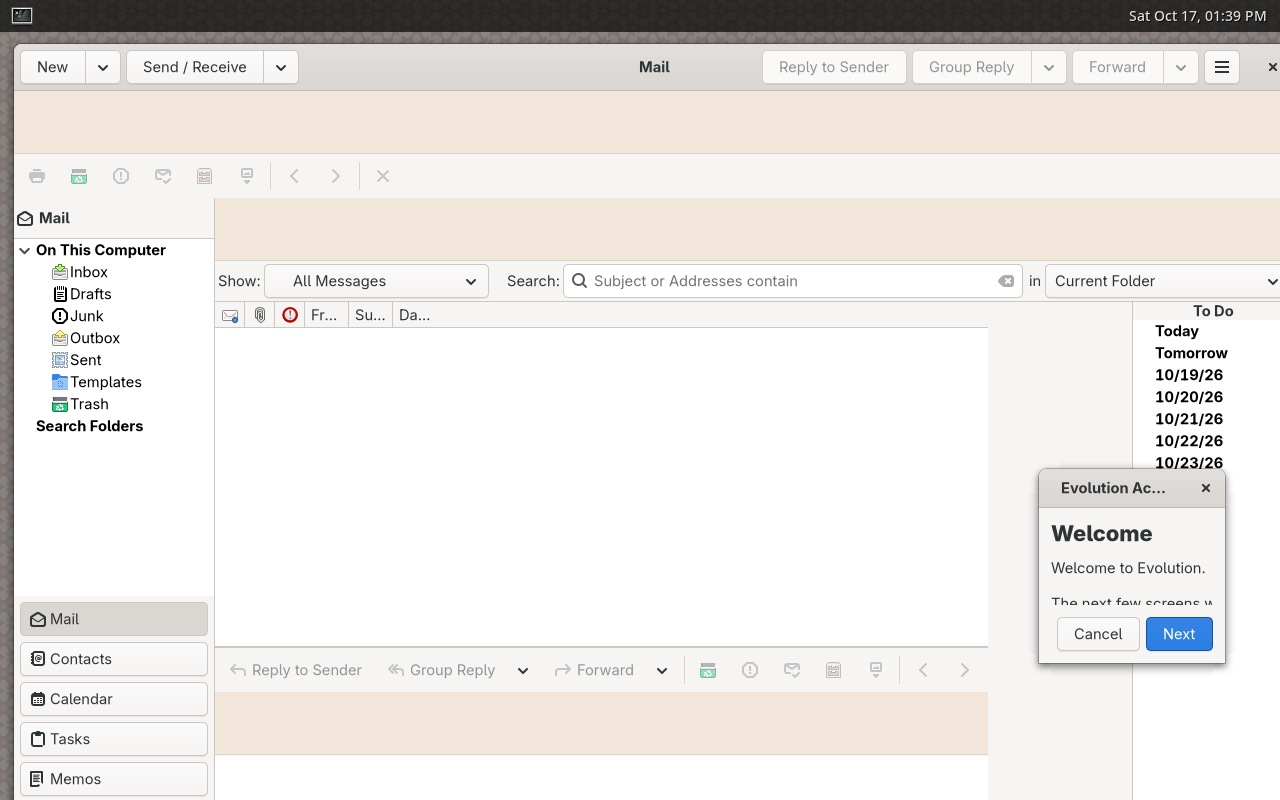
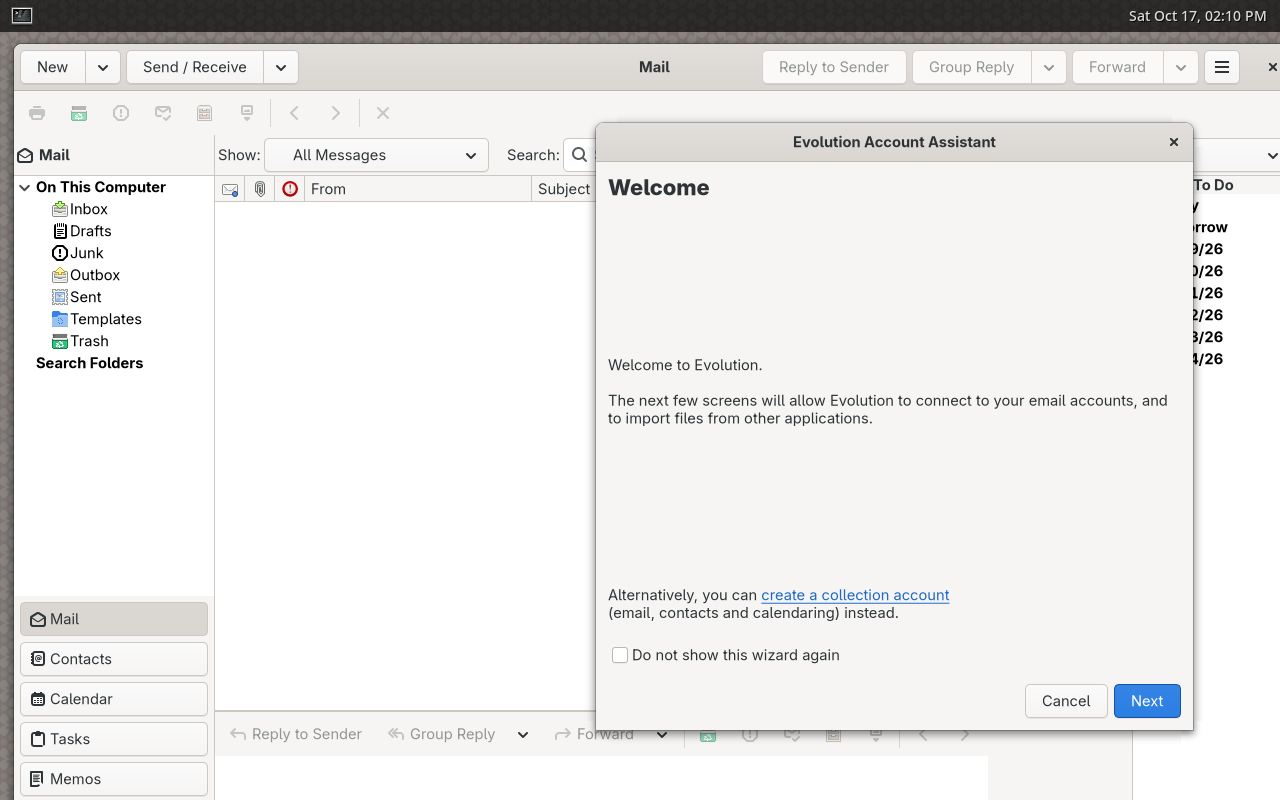
GTK 4: runtime fixes, evolution starts without criticals
size-allocate emulation for widgets that asked for it, map instead of
map-event, unchecked GTK_TOGGLE_BUTTON() casts, WebKitGTK 6 names, the
private library directory in the web process sandbox, mail config page
content lookups through the scrolled window, and alert/activity bars that
hide themselves (GTK 4 widgets are visible by default).

Changed region(s): [[0.0, 0.0938, 1.0, 0.9688], [0.9375, 0.0, 0.9688, 0.0312]]

diff --git a/src/calendar/gui/e-meeting-time-sel.c b/src/calendar/gui/e-meeting-time-sel.c
@@ -91,9 +91,11 @@ static void e_meeting_time_selector_add_key_color (EMeetingTimeSelector * mts,
 						   GtkWidget *hbox,
 						   gchar *label_text,
 						   GdkRGBA *color);
-static gint e_meeting_time_selector_draw_key_color (GtkWidget *darea,
+static void e_meeting_time_selector_draw_key_color (GtkDrawingArea *darea,
 						      cairo_t *cr,
-						      GdkRGBA *color);
+						      gint width,
+						      gint height,
+						      gpointer color);
 static void e_meeting_time_selector_realize (GtkWidget *widget);
 static void e_meeting_time_selector_unrealize (GtkWidget *widget);
 static void e_meeting_time_selector_style_updated (GtkWidget *widget);
@@ -489,7 +491,7 @@ e_meeting_time_selector_construct (EMeetingTimeSelector *mts,
 		mts->display_main, "realize",
 		G_CALLBACK (e_meeting_time_selector_on_canvas_realized), mts);
 	g_signal_connect (
-		mts->display_main, "size_allocate",
+		e_gtk_widget_size_allocations (mts->display_main), "size_allocate",
 		G_CALLBACK (e_meeting_time_selector_on_canvas_size_allocate), mts);
 	g_signal_connect (
 		e_gtk_widget_legacy_events (mts->display_main), "scroll-event",
@@ -852,45 +854,41 @@ e_meeting_time_selector_add_key_color (EMeetingTimeSelector *mts,
 	e_gtk_box_pack_start (GTK_BOX (child_hbox), label, TRUE, TRUE, 6);
 	gtk_widget_show (label);
 
-	g_signal_connect (
-		darea, "draw",
-		G_CALLBACK (e_meeting_time_selector_draw_key_color), color);
+	gtk_drawing_area_set_draw_func (GTK_DRAWING_AREA (darea),
+		e_meeting_time_selector_draw_key_color, color, NULL);
 }
 
-static gint
-e_meeting_time_selector_draw_key_color (GtkWidget *darea,
+static void
+e_meeting_time_selector_draw_key_color (GtkDrawingArea *darea,
                                         cairo_t *cr,
-                                        GdkRGBA *color)
+                                        gint width,
+                                        gint height,
+                                        gpointer color)
 {
 	EMeetingTimeSelector * mts;
-	GtkAllocation allocation;
 	GtkStyleContext *style_context;
 
 	mts = g_object_get_data (G_OBJECT (darea), "data");
 
-	style_context = gtk_widget_get_style_context (darea);
-
-	gtk_widget_get_allocation (darea, &allocation);
+	style_context = gtk_widget_get_style_context (GTK_WIDGET (darea));
 
 	gtk_render_frame (
 		style_context, cr,
 		(gdouble) 0,
 		(gdouble) 0,
-		(gdouble) allocation.width,
-		(gdouble) allocation.height);
+		(gdouble) width,
+		(gdouble) height);
 
 	if (color) {
 		gdk_cairo_set_source_rgba (cr, color);
-	} else {
+	} else if (mts->no_info_pattern) {
 		cairo_set_source (cr, mts->no_info_pattern);
 	}
 	cairo_rectangle (
 		cr,
 		1, 1,
-		allocation.width - 2, allocation.height - 2);
+		width - 2, height - 2);
 	cairo_fill (cr);
-
-	return TRUE;
 }
 
 static void

diff --git a/src/e-util/e-gtk-event-compat.c b/src/e-util/e-gtk-event-compat.c
@@ -22,6 +22,7 @@ enum {
 	POPUP_MENU,
 	STYLE_UPDATED,
 	DELETE_EVENT,
+	SIZE_ALLOCATE,
 	LAST_SIGNAL
 };
 
@@ -85,6 +86,13 @@ e_gtk_event_register_signals (void)
 		G_SIGNAL_RUN_FIRST, 0,
 		NULL, NULL, NULL,
 		G_TYPE_NONE, 0);
+
+	signals[SIZE_ALLOCATE] = g_signal_new (
+		"size-allocate", GTK_TYPE_WIDGET,
+		G_SIGNAL_RUN_FIRST, 0,
+		NULL, NULL, NULL,
+		G_TYPE_NONE, 1,
+		G_TYPE_POINTER /* GtkAllocation */);
 }
 
 static gboolean
@@ -437,6 +445,60 @@ style_settings_notify_cb (GtkSettings *settings,
 			  GtkWidget *widget)
 {
 	g_signal_emit (widget, signals[STYLE_UPDATED], 0);
+}
+
+/* original size_allocate vfuncs of the classes wrapped below, by GType */
+static GHashTable *size_allocate_originals = NULL;
+
+#define SIZE_ALLOCATE_KEY "e-gtk-size-allocate"
+
+typedef void (* SizeAllocateFunc) (GtkWidget *widget, gint width, gint height, gint baseline);
+
+static void
+size_allocate_wrapper (GtkWidget *widget,
+		       gint width,
+		       gint height,
+		       gint baseline)
+{
+	SizeAllocateFunc original = NULL;
+	GType type;
+
+	/* classes initialized after the wrapping inherit the wrapper,
+	 * thus look up the nearest wrapped ancestor */
+	for (type = G_TYPE_FROM_INSTANCE (widget); type && !original; type = g_type_parent (type))
+		original = g_hash_table_lookup (size_allocate_originals, GSIZE_TO_POINTER (type));
+
+	if (original)
+		original (widget, width, height, baseline);
+
+	if (g_object_get_data (G_OBJECT (widget), SIZE_ALLOCATE_KEY)) {
+		GtkAllocation allocation = { 0, 0, width, height };
+
+		g_signal_emit (widget, signals[SIZE_ALLOCATE], 0, &allocation);
+	}
+}
+
+gpointer
+e_gtk_widget_size_allocations (gpointer widget)
+{
+	GtkWidgetClass *klass;
+
+	g_return_val_if_fail (GTK_IS_WIDGET (widget), widget);
+
+	g_object_set_data (G_OBJECT (widget), SIZE_ALLOCATE_KEY, GINT_TO_POINTER (1));
+
+	klass = GTK_WIDGET_GET_CLASS (widget);
+
+	if (klass->size_allocate != size_allocate_wrapper) {
+		if (!size_allocate_originals)
+			size_allocate_originals = g_hash_table_new (g_direct_hash, g_direct_equal);
+
+		g_hash_table_insert (size_allocate_originals,
+			GSIZE_TO_POINTER (G_TYPE_FROM_CLASS (klass)), klass->size_allocate);
+		klass->size_allocate = size_allocate_wrapper;
+	}
+
+	return widget;
 }
 
 gpointer

diff --git a/src/e-util/e-web-view.c b/src/e-util/e-web-view.c
@@ -1062,6 +1062,10 @@ web_view_constructor (GType type,
 				webkit_web_context_set_cache_model (web_context, WEBKIT_CACHE_MODEL_DOCUMENT_VIEWER);
 				webkit_web_context_set_web_process_extensions_directory (web_context, EVOLUTION_WEB_EXTENSIONS_DIR);
 				webkit_web_context_add_path_to_sandbox (web_context, EVOLUTION_WEBKITDATADIR, TRUE);
+				/* DoxMail: the extensions link the private libraries, which
+				 * the web process sandbox hides outside of /usr */
+				if (!g_str_has_prefix (EVOLUTION_PRIVLIBDIR, "/usr/"))
+					webkit_web_context_add_path_to_sandbox (web_context, EVOLUTION_PRIVLIBDIR, TRUE);
 
 				plugins_path = g_build_filename (e_get_user_data_dir (), "preview-plugins", NULL);
 				if (g_file_test (plugins_path, G_FILE_TEST_IS_DIR))
@@ -1821,7 +1825,7 @@ web_view_constructed (GObject *object)
 
 	g_clear_object (&settings);
 
-	g_signal_connect_object (webkit_web_view_get_context (WEBKIT_WEB_VIEW (web_view)), "initialize-web-extensions",
+	g_signal_connect_object (webkit_web_view_get_context (WEBKIT_WEB_VIEW (web_view)), "initialize-web-process-extensions",
 		G_CALLBACK (e_web_view_initialize_web_extensions_cb), web_view, 0);
 
 	/* Chain up to parent's constructed() method. */
@@ -3633,7 +3637,6 @@ e_web_view_get_default_webkit_settings (void)
 		"enable-html5-database", FALSE,
 		"enable-dns-prefetching", FALSE,
 		"enable-html5-local-storage", FALSE,
-		"enable-java", FALSE,
 		"enable-javascript", TRUE, /* Needed for JavaScriptCore API to work */
 		"enable-javascript-markup", FALSE, /* Discards user-provided javascript in HTML */
 		"enable-offline-web-application-cache", FALSE,

diff --git a/src/modules/webkit-editor/e-webkit-editor.c b/src/modules/webkit-editor/e-webkit-editor.c
@@ -4240,7 +4240,7 @@ webkit_editor_constructed (GObject *object)
 
 	/* Do this before calling the parent's constructed(), because
 	   that can emit the web_context's signal */
-	g_signal_connect_object (web_context, "initialize-web-extensions",
+	g_signal_connect_object (web_context, "initialize-web-process-extensions",
 		G_CALLBACK (e_webkit_editor_initialize_web_extensions_cb), wk_editor, 0);
 
 	G_OBJECT_CLASS (e_webkit_editor_parent_class)->constructed (object);
@@ -4396,6 +4396,10 @@ webkit_editor_constructor (GType type,
 				webkit_web_context_set_cache_model (web_context, WEBKIT_CACHE_MODEL_DOCUMENT_VIEWER);
 				webkit_web_context_set_web_process_extensions_directory (web_context, EVOLUTION_WEB_EXTENSIONS_WEBKIT_EDITOR_DIR);
 				webkit_web_context_add_path_to_sandbox (web_context, EVOLUTION_WEBKITDATADIR, TRUE);
+				/* DoxMail: the extensions link the private libraries, which
+				 * the web process sandbox hides outside of /usr */
+				if (!g_str_has_prefix (EVOLUTION_PRIVLIBDIR, "/usr/"))
+					webkit_web_context_add_path_to_sandbox (web_context, EVOLUTION_PRIVLIBDIR, TRUE);
 
 				plugins_path = g_build_filename (e_get_user_data_dir (), "webkit-editor-plugins", NULL);
 				if (g_file_test (plugins_path, G_FILE_TEST_IS_DIR))

diff --git a/src/shell/e-shell-view.c b/src/shell/e-shell-view.c
@@ -1301,10 +1301,11 @@ shell_view_init_ui_data (EShellView *self)
 }
 
 static void
-shell_view_menubar_deactivate_cb (GtkWidget *menu_bar,
+shell_view_menubar_deactivate_cb (GtkEventControllerFocus *controller,
 				  gpointer user_data)
 {
 	EShellView *self = user_data;
+	GtkWidget *menu_bar = gtk_event_controller_get_widget (GTK_EVENT_CONTROLLER (controller));
 
 	g_return_if_fail (E_IS_SHELL_VIEW (self));
 
@@ -2141,8 +2142,14 @@ shell_view_constructed (GObject *object)
 	shell_view->priv->menu_bar = e_menu_bar_new (widget, GTK_WINDOW (shell_view->priv->shell_window), &shell_view->priv->menu_button);
 	e_gtk_box_pack_start (GTK_BOX (shell_view), widget, FALSE, FALSE, 0);
 
-	g_signal_connect_object (widget, "deactivate",
-		G_CALLBACK (shell_view_menubar_deactivate_cb), shell_view, 0);
+	/* GtkPopoverMenuBar has no "deactivate"; the focus leaves it instead */
+	{
+		GtkEventController *controller = gtk_event_controller_focus_new ();
+
+		g_signal_connect_object (controller, "leave",
+			G_CALLBACK (shell_view_menubar_deactivate_cb), shell_view, 0);
+		gtk_widget_add_controller (widget, controller);
+	}
 
 	if (e_util_get_use_header_bar ()) {
 		ui_item = e_ui_manager_create_item (shell_view->priv->ui_manager, "main-headerbar");

diff --git a/src/e-util/e-tree.c b/src/e-util/e-tree.c
@@ -755,7 +755,7 @@ e_tree_setup_header (ETree *tree)
 		G_CALLBACK (e_tree_header_click_can_sort_cb), tree, 0);
 
 	g_signal_connect (
-		tree->priv->header_canvas, "size_allocate",
+		e_gtk_widget_size_allocations (tree->priv->header_canvas), "size_allocate",
 		G_CALLBACK (header_canvas_size_allocate), tree);
 
 	gtk_widget_set_size_request (
@@ -1321,7 +1321,7 @@ e_tree_setup_table (ETree *tree)
 	gtk_widget_set_hexpand (GTK_WIDGET (tree->priv->table_canvas), TRUE);
 	gtk_widget_set_vexpand (GTK_WIDGET (tree->priv->table_canvas), TRUE);
 	g_signal_connect (
-		tree->priv->table_canvas, "size_allocate",
+		e_gtk_widget_size_allocations (tree->priv->table_canvas), "size_allocate",
 		G_CALLBACK (tree_canvas_size_allocate), tree);
 	g_signal_connect (
 		e_gtk_widget_legacy_events (tree->priv->table_canvas), "focus_in_event",
@@ -3329,7 +3329,7 @@ e_tree_set_info_message (ETree *tree,
 			e_canvas_item_move_absolute (tree->priv->info_text, 30, 30);
 
 			tree->priv->info_text_resize_id = g_signal_connect (
-				tree, "size_allocate",
+				e_gtk_widget_size_allocations (tree), "size_allocate",
 				G_CALLBACK (tree_size_allocate), tree);
 		}
 	} else

diff --git a/src/e-util/e-table.c b/src/e-util/e-table.c
@@ -712,7 +712,7 @@ e_table_setup_header (ETable *e_table)
 	g_free (pointer);
 
 	g_signal_connect (
-		e_table->header_canvas, "size_allocate",
+		e_gtk_widget_size_allocations (e_table->header_canvas), "size_allocate",
 		G_CALLBACK (header_canvas_size_allocate), e_table);
 
 	g_object_set (
@@ -1450,7 +1450,7 @@ e_table_setup_table (ETable *e_table,
 	gtk_widget_set_hexpand (GTK_WIDGET (e_table->table_canvas), TRUE);
 	gtk_widget_set_vexpand (GTK_WIDGET (e_table->table_canvas), TRUE);
 	g_signal_connect (
-		e_table->table_canvas, "size_allocate",
+		e_gtk_widget_size_allocations (e_table->table_canvas), "size_allocate",
 		G_CALLBACK (table_canvas_size_allocate), e_table);
 	g_signal_connect (
 		e_gtk_widget_legacy_events (e_table->table_canvas), "focus_in_event",
@@ -3622,7 +3622,7 @@ e_table_set_info_message (ETable *table,
 			e_canvas_item_move_absolute (table->priv->info_text, 30, 30);
 
 			table->priv->info_text_resize_id = g_signal_connect_object (
-				table, "size_allocate",
+				e_gtk_widget_size_allocations (table), "size_allocate",
 				G_CALLBACK (table_size_allocate), table, 0);
 		}
 	} else

diff --git a/src/modules/composer-autosave/e-composer-registry.c b/src/modules/composer-autosave/e-composer-registry.c
@@ -114,9 +114,8 @@ composer_registry_restore_orphans (EComposerRegistry *registry,
 	}
 }
 
-static gboolean
+static void
 composer_registry_map_event_cb (GtkWindow *parent,
-                                GdkEvent *event,
                                 EComposerRegistry *registry)
 {
 	composer_registry_restore_orphans (registry, parent);
@@ -127,8 +126,6 @@ composer_registry_map_event_cb (GtkWindow *parent,
 	g_signal_handler_disconnect (
 		parent, registry->priv->map_event_handler_id);
 	registry->priv->map_event_handler_id = 0;
-
-	return FALSE;
 }
 
 static void
@@ -152,7 +149,7 @@ composer_registry_window_added_cb (GtkApplication *application,
 		gulong handler_id;
 
 		handler_id = g_signal_connect (
-			window, "map-event",
+			window, "map",
 			G_CALLBACK (composer_registry_map_event_cb),
 			registry);
 		registry->priv->map_event_handler_id = handler_id;

diff --git a/src/mail/e-mail-config-page.c b/src/mail/e-mail-config-page.c
@@ -194,6 +194,24 @@ e_mail_config_page_set_content (EMailConfigPage *page,
 	gtk_widget_show (GTK_WIDGET (page));
 }
 
+/* the content set by e_mail_config_page_set_content(), inside the
+ * page's scrolled window and its viewport, or NULL */
+GtkWidget *
+e_mail_config_page_get_content (EMailConfigPage *page)
+{
+	GtkWidget *widget;
+
+	g_return_val_if_fail (E_IS_MAIL_CONFIG_PAGE (page), NULL);
+
+	widget = e_gtk_bin_get_bin_child (E_GTK_BIN (page));
+	if (GTK_IS_SCROLLED_WINDOW (widget))
+		widget = gtk_scrolled_window_get_child (GTK_SCROLLED_WINDOW (widget));
+	if (GTK_IS_VIEWPORT (widget))
+		widget = gtk_viewport_get_child (GTK_VIEWPORT (widget));
+
+	return widget;
+}
+
 gint
 e_mail_config_page_compare (GtkWidget *page_a,
                             GtkWidget *page_b)

diff --git a/src/e-util/e-gtk-event-compat.h b/src/e-util/e-gtk-event-compat.h
@@ -37,6 +37,11 @@ gpointer	e_gtk_widget_legacy_events	(gpointer widget);
  * this; TRUE keeps the window open, as with GTK 3 */
 gpointer	e_gtk_window_delete_events	(gpointer window);
 
+/* "size-allocate" (void (GtkWidget *, GtkAllocation *)) is emitted after
+ * widgets passed through this got allocated, with the allocation in their
+ * own coordinates; the size_allocate method of their class is wrapped */
+gpointer	e_gtk_widget_size_allocations	(gpointer widget);
+
 /* "style-updated" (void (GtkWidget *)) is emitted for widgets passed
  * through this when the theme, the dark preference or the font change */
 gpointer	e_gtk_widget_style_updates	(gpointer widget);

diff --git a/src/e-util/e-gtk4-compat.h b/src/e-util/e-gtk4-compat.h
@@ -317,6 +317,12 @@ void		e_gtk_window_remove_accel_group	(GtkWindow *window,
 						 EGtkAccelGroup *accel_group);
 
 /* GtkToggleButton or GtkCheckButton (no longer a toggle button) */
+/* GTK 3 check and radio buttons were toggle buttons; with GTK 4 they are
+ * unrelated types, both handled by e_gtk_toggle_button_*() (which check
+ * the real type), thus this cast does not check */
+#undef GTK_TOGGLE_BUTTON
+#define GTK_TOGGLE_BUTTON(obj) ((GtkToggleButton *) (obj))
+
 gboolean	e_gtk_toggle_button_get_active	(gpointer button);
 void		e_gtk_toggle_button_set_active	(gpointer button,
 						 gboolean active);

diff --git a/src/modules/mail/e-mail-shell-content.c b/src/modules/mail/e-mail-shell-content.c
@@ -147,7 +147,7 @@ mail_shell_content_constructed (GObject *object)
 	EShellView *shell_view;
 	EAttachmentStore *attachment_store;
 	EMailDisplay *display;
-	GtkPaned *paned;
+	gpointer paned; /* EPaned wraps the final GtkPaned */
 	GtkWidget *widget;
 	GtkBox *vbox;
 	GSettings *settings;
@@ -165,7 +165,7 @@ mail_shell_content_constructed (GObject *object)
 	e_gtk_container_add (shell_content, widget);
 	gtk_widget_show (widget);
 
-	paned = GTK_PANED (widget);
+	paned = widget;
 
 	widget = gtk_box_new (GTK_ORIENTATION_VERTICAL, 4);
 	e_gtk_paned_pack1 (paned, widget, TRUE, FALSE);
